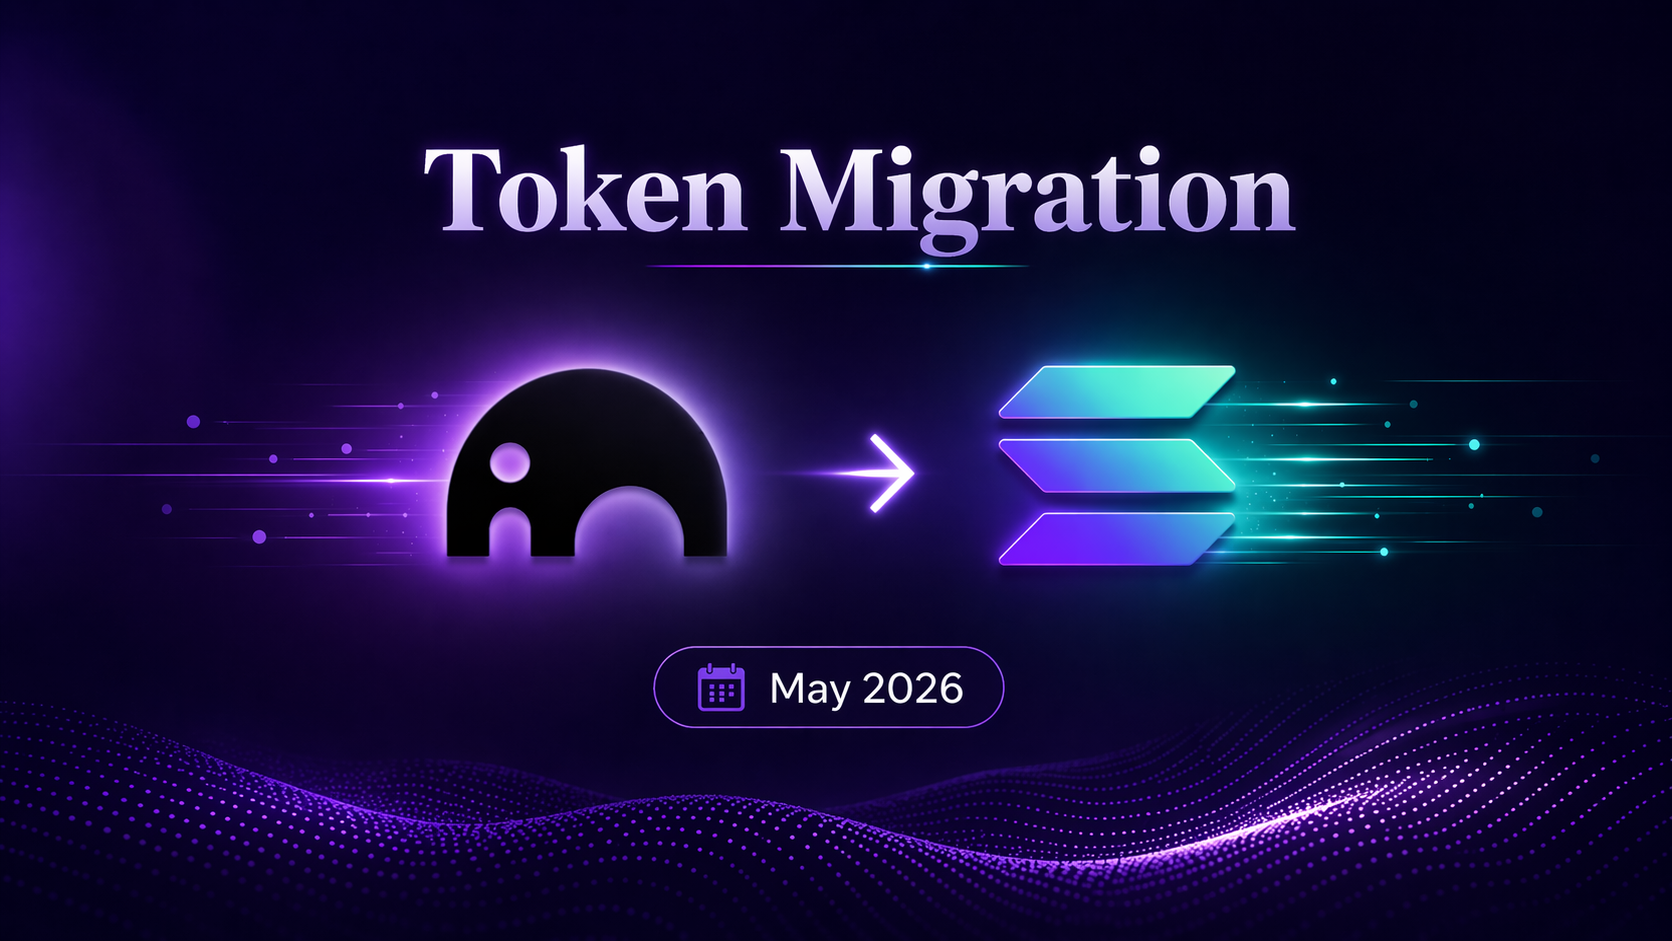
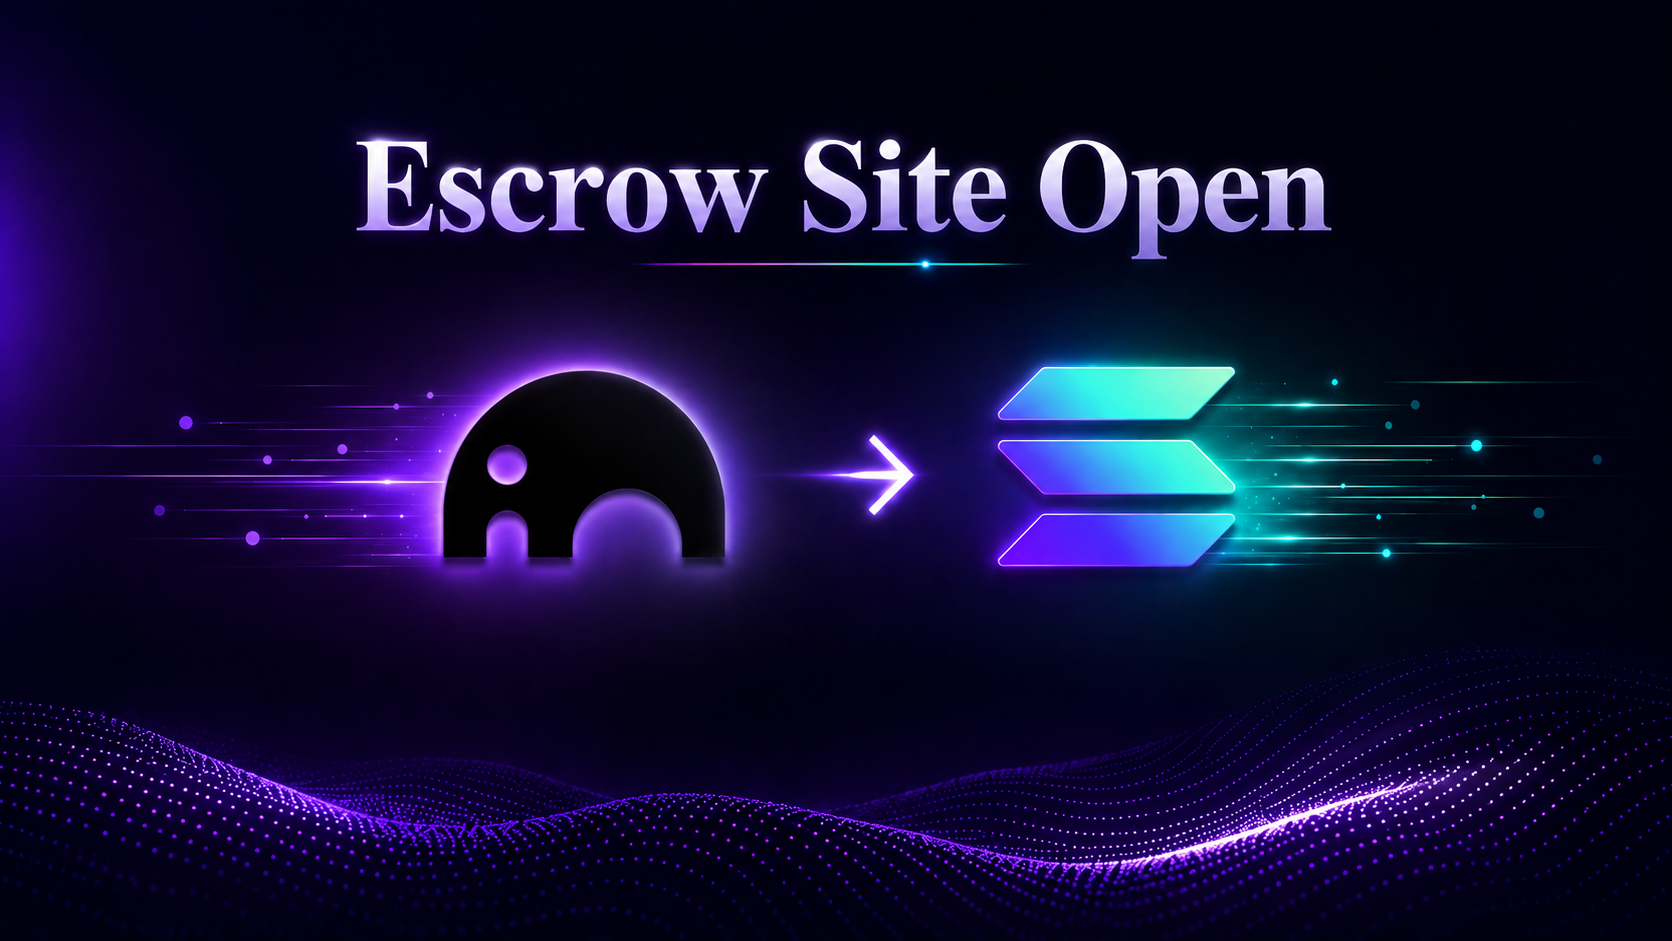
feat(claim): social preview + claim-page copy tightening + brand-kit alignment (#12)
* chore: update social-preview.png (new "Escrow Site Open" branded image)

Replaces the social card served at https://sol.ar.io/social-preview.png (already
referenced by the og:image + twitter:image meta in index.html). New art:
ar.io → Solana "Escrow Site Open", 1672×941 PNG. Ships into the permaweb manifest
via public/ on the next deploy; no meta-tag changes needed.

Claude-Session: https://claude.ai/code/session_01M29AMJjx6gFPX6gQJXMqJ9

* feat(claim): tighten claim-page copy + align to brand kit

Copy (ClaimPage): high-signal pass, ~40% less hint text, security reassurances
kept but demoted to a small `subtleNote` style instead of full inline sentences.
- lede → "Connect your wallet to verify and claim your assets."
- step 1 → "Connect the Arweave or Ethereum wallet your assets were sent to."
- step 2 → one primary line ("Where your claimed assets get delivered. Paste any
  Solana address or connect a wallet — it doesn't need to match…") + subtle note
  "Locked into every signature — it can't be changed after you sign." (was two
  overlapping jargon-y paragraphs)
- step 3 → "Approve each claim in your <wallet> (N signatures)." + subtle note
  "Each signature is re-checked against the exact asset and destination."
- "Checking…" discovery text bolder (700, 14px, textSecondary, no italic)

Header/footer:
- removed the "Claims" chip (top-left is just the ar.io logo)
- fixed the top-right "More Info" nav link URL → https://ar.io/solana-migration/
  (was a broken .../ar.io)
[…]

diff --git a/src/pages/ClaimPage.tsx b/src/pages/ClaimPage.tsx
@@ -538,17 +538,13 @@ export function ClaimPage({ antMint: initialAssetKey }: Props) {
     <div style={styles.wrap}>
       <h1 className="page-title" style={styles.h1}>Claim your assets</h1>
       <p style={styles.lede}>
-        Someone set aside ANTs or ARIO tokens for you. Connect the Arweave or
-        Ethereum wallet they were addressed to, pick the assets to claim, and
-        we'll deliver them to any Solana wallet you choose. Have a claim link?
-        You can also enter the identifier manually in step 1.
+        Connect your wallet to verify and claim your assets.
       </p>
 
       {/* ---- Step 1: find assets ---- */}
       <StepCard n={1} title="Find your assets" completed={items.length > 0}>
         <p style={styles.hint}>
-          Connect the Arweave or Ethereum wallet your assets were addressed to,
-          and we'll find everything waiting for you to claim.
+          Connect the Arweave or Ethereum wallet your assets were sent to.
         </p>
 
         <div style={styles.connectStack}>
@@ -682,9 +678,8 @@ export function ClaimPage({ antMint: initialAssetKey }: Props) {
         active={items.length > 0}
       >
         <p style={{ ...styles.hint, marginTop: 0, marginBottom: '12px' }}>
-          This destination is independent of the wallet you prove ownership with —
-          you can reuse the same Solana address across your Arweave and Ethereum
-          claims.
+          Where your claimed assets get delivered. Paste any Solana address or
+          connect a wallet — it doesn't need to match the wallet you're claiming with.
         </p>
         <input
           type="text"
@@ -719,12 +714,8 @@ export function ClaimPage({ antMint: initialAssetKey }: Props) {
             Use connected wallet ({publicKey.toBase58().slice(0, 4)}…{publicKey.toBase58().slice(-4)})
           </button>
         )}
-        <p style={styles.hint}>
-          The Solana wallet that will receive every asset you claim
-          {publicKey ? ' — pre-filled from your connected wallet' : ''}. This
-          address is locked into each signature — no one can redirect it.
-          Connecting a Solana wallet is optional; you can also just paste an
-          address.
+        <p style={styles.subtleNote}>
+          Locked into every signature — it can't be changed after you sign.
         </p>
       </StepCard>
 
@@ -760,11 +751,12 @@ export function ClaimPage({ antMint: initialAssetKey }: Props) {
         ) : (
           <>
             <p style={styles.hint}>
-              You'll approve each asset in your{' '}
+              Approve each claim in your{' '}
               {connectedProtocol ? protocolLabel[connectedProtocol] : ''} wallet
-              ({selected.length} signature{selected.length === 1 ? '' : 's'}) — every
-              asset is authorized separately. Before each signature we re-verify the
-              message binds this exact asset and your destination wallet.
+              ({selected.length} signature{selected.length === 1 ? '' : 's'}).
+            </p>
+            <p style={styles.subtleNote}>
+              Each signature is re-checked against the exact asset and destination.
             </p>
             <button
               type="button"
@@ -892,7 +884,7 @@ const styles: Record<string, React.CSSProperties> = {
   h1: {
     fontFamily: "'Besley', Georgia, serif",
     fontSize: '40px',
-    fontWeight: 700,
+    fontWeight: 800, // brand kit heading weight
     color: brand.black,
     lineHeight: 1.15,
     margin: 0,
@@ -928,6 +920,13 @@ const styles: Record<string, React.CSSProperties> = {
     color: brand.textTertiary,
     margin: '8px 0 0',
   },
+  // Secondary trust note — lighter/smaller than a hint (security reassurance).
+  subtleNote: {
+    fontFamily: "'Plus Jakarta Sans', sans-serif",
+    fontSize: '12px',
+    color: brand.textTertiary,
+    margin: '6px 0 0',
+  },
   successHint: {
     fontFamily: "'Plus Jakarta Sans', sans-serif",
     fontSize: '13px',
@@ -950,10 +949,10 @@ const styles: Record<string, React.CSSProperties> = {
   discoverySection: { marginTop: '16px' },
   discoveryLoading: {
     fontFamily: "'Plus Jakarta Sans', sans-serif",
-    fontSize: '13px',
-    color: brand.textTertiary,
+    fontSize: '14px',
+    color: brand.textSecondary,
     margin: 0,
-    fontStyle: 'italic' as const,
+    fontWeight: 700,
   },
   discoveryError: {
     fontFamily: "'Plus Jakarta Sans', sans-serif",

diff --git a/src/App.tsx b/src/App.tsx
@@ -155,7 +155,7 @@ export function App() {
   const isDesktop = useMediaQuery('(min-width: 480px)');
   const mainNav = [
     ['#/claim', 'claim', 'Claim'],
-    ['https://ar.io/solana-migration/ar.io', 'more-info', 'More Info'],
+    ['https://ar.io/solana-migration/', 'more-info', 'More Info'],
   ] as const;
 
   useEffect(() => {
@@ -200,7 +200,6 @@ export function App() {
             <header className="app-header" style={styles.header}>
               <a href="#/" style={styles.logoLink}>
                 <ArioLogo />
-                <span style={styles.badge}>Claims</span>
               </a>
               <div style={styles.headerRight}>
                 <NetworkBadge />
@@ -335,6 +334,15 @@ export function App() {
                 style={styles.footerLink}
               >
                 ar.io
+              </a>
+              <span style={styles.footerDot}>&middot;</span>
+              <a
+                href="https://ar.io/legal/terms-of-service-and-privacy-policy/"
+                target="_blank"
+                rel="noopener noreferrer"
+                style={styles.footerLink}
+              >
+                Terms &amp; Privacy
               </a>
               <span style={styles.footerDot}>&middot;</span>
               <span style={styles.footerVersion}>

diff --git a/src/brand.ts b/src/brand.ts
@@ -6,9 +6,9 @@ export const brand = {
   black: '#23232D',
   white: '#FFFFFF',
   cardSurface: '#F0F0F0',
-  textSecondary: '#6B6B78',
+  textSecondary: '#4A4A58', // brand kit "Body Gray" — long-form copy
   textTertiary: '#9E9EA8',
-  border: '#E0E0E4',
+  border: '#E6E4EF', // brand kit "Subtle Border" — dividers/borders
   success: '#1A8754',
   successBg: '#EDFAF3',
   warning: '#B07000',
